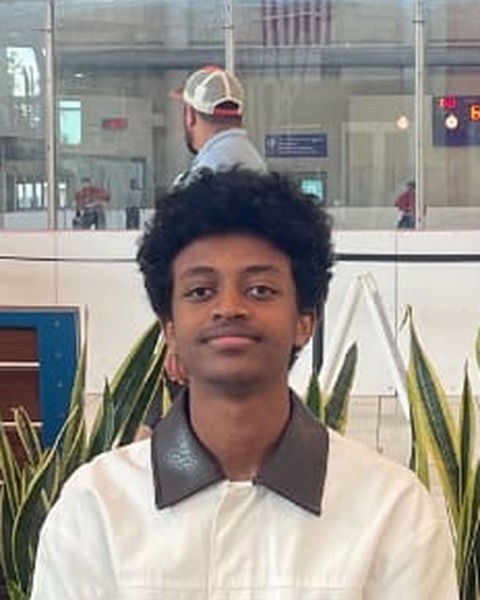
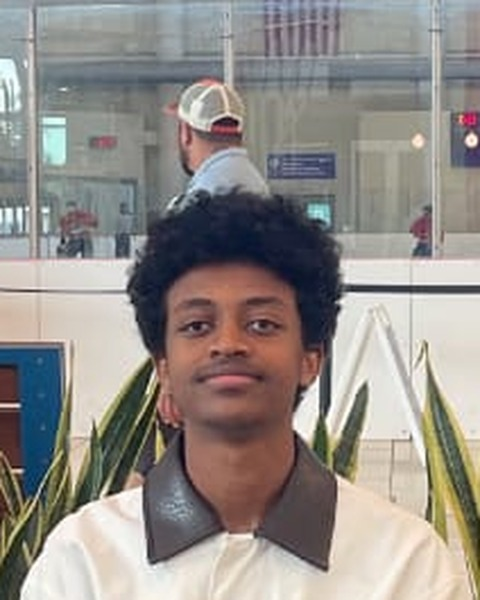
responsives

diff --git a/assets/css/style.css b/assets/css/style.css
@@ -6,21 +6,27 @@ body { margin:0; background:var(--bg); color:var(--ink); font:15px/1.55 Inter, s
 a { color:inherit; text-decoration:none; }
 .w { max-width:980px; margin:0 auto; padding:48px 40px; }
 
-.top { display:flex; justify-content:space-between; align-items:center; border-bottom:1px solid var(--ink); padding-bottom:14px; font-size:13px; }
-.top span { display:flex; align-items:center; gap:18px; }
+.top { display:flex; flex-wrap:wrap; gap:10px 24px; justify-content:space-between; align-items:center; border-bottom:1px solid var(--ink); padding-bottom:14px; font-size:13px; }
+.top span { display:flex; align-items:center; gap:18px; flex-wrap:wrap; }
 .top a:hover { color:var(--soft); }
 .theme { background:none; border:0; padding:0; color:var(--ink); cursor:pointer; display:flex; }
 .theme svg { width:14px; height:14px; }
 
 .hero { display:grid; grid-template-columns:1fr 2fr; gap:40px; margin-top:48px; }
 h1 { font:500 32px/1.1 Inter, sans-serif; letter-spacing:-.02em; margin:0; }
+.hero h1 span { display:block; }
 .me { width:128px; height:160px; object-fit:cover; margin-top:24px; }
 .lead { font-size:20px; line-height:1.5; letter-spacing:-.01em; margin:0; }
 .lab { font-size:12px; color:var(--mute); margin:26px 0 8px; }
 .skills { margin:0; padding:0; list-style:none; }
 .skills li { padding:3px 0 3px 14px; position:relative; break-inside:avoid; color:var(--soft); }
 .skills li:before { content:""; position:absolute; left:0; top:13px; width:5px; height:1px; background:var(--ink); }
-.links { margin-top:22px; font-size:13px; color:var(--soft); display:flex; flex-wrap:wrap; gap:18px; }
+.links { margin-top:24px; color:var(--soft); display:flex; flex-wrap:wrap; gap:20px; }
+.links a { display:inline-flex; transition:color .2s, transform .2s; } .links a:hover { color:var(--ink); transform:translateY(-1px); }
+.si { width:22px; height:22px; flex:none; }
+.wave { display:inline-block; margin-top:20px; color:var(--ink); font-style:italic; font-size:15px; white-space:nowrap; }
+.wave span { display:inline-block; font-size:calc(15px + cos(var(--i) * .45rad) * 3.5px); transform:translateY(calc(sin(var(--i) * .5rad) * 5px)); transition:transform .45s cubic-bezier(.2,.75,.2,1); }
+.wave:hover span { transform:none; }
 .links a:hover { color:var(--ink); }
 
 h2 { font:500 13px Inter, sans-serif; margin:72px 0 0; padding-bottom:10px; border-bottom:1px solid var(--ink); display:flex; justify-content:space-between; }
@@ -56,6 +62,10 @@ h1.page { font-size:32px; margin:48px 0 0; }
 footer { margin-top:80px; font-size:12px; color:var(--mute); border-top:1px solid var(--line); padding-top:12px; }
 
 @media (max-width:720px) {
+  .top { font-size:13px; } .top > a { flex-basis:100%; font-weight:500; }
+  .hero h1 span { display:inline; } h1 { font-size:28px; } .lead { font-size:18px; }
+  .me { width:112px; height:140px; margin-top:16px; }
+  .wave { white-space:normal; }
   .w { padding:32px 22px; } .hero { grid-template-columns:1fr; gap:24px; } .skills { columns:1; }
   .row { grid-template-columns:32px 1fr; } .row .d, .row .g { display:none; } .row.post .g { display:block; }
   .row.post { grid-template-columns:32px 1fr auto; } .hob { grid-template-columns:repeat(3,1fr); }

diff --git a/layouts/partials/socialIcon.html b/layouts/partials/socialIcon.html
@@ -1,0 +1,7 @@
+{{- $n := . -}}
+{{- if eq $n "github" -}}<svg class="si" viewBox="0 0 24 24" aria-hidden="true"><path fill="currentColor" d="M12 .297c-6.63 0-12 5.373-12 12 0 5.303 3.438 9.8 8.205 11.385.6.113.82-.258.82-.577 0-.285-.01-1.04-.015-2.04-3.338.724-4.042-1.61-4.042-1.61C4.422 18.07 3.633 17.7 3.633 17.7c-1.087-.744.084-.729.084-.729 1.205.084 1.838 1.236 1.838 1.236 1.07 1.835 2.809 1.305 3.495.998.108-.776.417-1.305.76-1.605-2.665-.3-5.466-1.332-5.466-5.93 0-1.31.465-2.38 1.235-3.22-.135-.303-.54-1.523.105-3.176 0 0 1.005-.322 3.3 1.23.96-.267 1.98-.399 3-.405 1.02.006 2.04.138 3 .405 2.28-1.552 3.285-1.23 3.285-1.23.645 1.653.24 2.873.12 3.176.765.84 1.23 1.91 1.23 3.22 0 4.61-2.805 5.625-5.475 5.92.42.36.81 1.096.81 2.22 0 1.606-.015 2.896-.015 3.286 0 .315.21.69.825.57C20.565 22.092 24 17.592 24 12.297c0-6.627-5.373-12-12-12"/></svg>
+{{- else if eq $n "linkedin" -}}<svg class="si" viewBox="0 0 24 24" aria-hidden="true"><path fill="currentColor" d="M20.447 20.452h-3.554v-5.569c0-1.328-.027-3.037-1.852-3.037-1.853 0-2.136 1.445-2.136 2.939v5.667H9.351V9h3.414v1.561h.046c.477-.9 1.637-1.85 3.37-1.85 3.601 0 4.267 2.37 4.267 5.455v6.286zM5.337 7.433c-1.144 0-2.063-.926-2.063-2.065 0-1.138.92-2.063 2.063-2.063 1.14 0 2.064.925 2.064 2.063 0 1.139-.925 2.065-2.064 2.065zm1.782 13.019H3.555V9h3.564v11.452zM22.225 0H1.771C.792 0 0 .774 0 1.729v20.542C0 23.227.792 24 1.771 24h20.451C23.2 24 24 23.227 24 22.271V1.729C24 .774 23.2 0 22.222 0h.003z"/></svg>
+{{- else if eq $n "medium" -}}<svg class="si" viewBox="0 0 24 24" aria-hidden="true"><path fill="currentColor" d="M4.21 0A4.201 4.201 0 0 0 0 4.21v15.58A4.201 4.201 0 0 0 4.21 24h15.58A4.201 4.201 0 0 0 24 19.79v-1.093c-.137.013-.278.02-.422.02-2.577 0-4.027-2.146-4.09-4.832a7.592 7.592 0 0 1 .022-.708c.093-1.186.475-2.241 1.105-3.022a3.885 3.885 0 0 1 1.395-1.1c.468-.237 1.127-.367 1.664-.367h.023c.101 0 .202.004.303.01V4.211A4.201 4.201 0 0 0 19.79 0Zm.198 5.583h4.165l3.588 8.435 3.59-8.435h3.864v.146l-.019.004c-.705.16-1.063.397-1.063 1.254h-.003l.003 10.274c.06.676.424.885 1.063 1.03l.02.004v.145h-4.923v-.145l.019-.005c.639-.144.994-.353 1.054-1.03V7.267l-4.745 11.15h-.261L6.15 7.569v9.445c0 .857.358 1.094 1.063 1.253l.02.004v.147H4.405v-.147l.019-.004c.705-.16 1.065-.397 1.065-1.253V6.987c0-.857-.358-1.094-1.064-1.254l-.018-.004zm19.25 3.668c-1.086.023-1.733 1.323-1.813 3.124H24V9.298a1.378 1.378 0 0 0-.342-.047Zm-1.862 3.632c-.1 1.756.86 3.239 2.204 3.634v-3.634z"/></svg>
+{{- else if eq $n "twitter" -}}<svg class="si" viewBox="0 0 24 24" aria-hidden="true"><path fill="currentColor" d="M18.901 1.153h3.68l-8.04 9.19L24 22.846h-7.406l-5.8-7.584-6.638 7.584H.474l8.6-9.83L0 1.154h7.594l5.243 6.932ZM17.61 20.644h2.039L6.486 3.24H4.298Z"/></svg>
+{{- else if eq $n "email" -}}<svg class="si" viewBox="0 0 24 24" fill="none" stroke="currentColor" stroke-width="2" stroke-linecap="round" stroke-linejoin="round" aria-hidden="true"> <path d="m22 7-8.991 5.727a2 2 0 0 1-2.009 0L2 7" /> <rect x="2" y="4" width="20" height="16" rx="2" /> </svg>
+{{- end -}}

diff --git a/layouts/index.html b/layouts/index.html
@@ -1,14 +1,15 @@
 {{ define "main" }}
 <section class="hero">
   <div>
-    <h1>{{ replace site.Title " " "<br>" | safeHTML }}</h1>
+    <h1>{{ range split site.Title " " }}<span>{{ . }}</span> {{ end }}</h1>
     {{ with site.Params.photo }}{{ if fileExists (printf "static/%s" .) }}<img class="me" src="{{ . | relURL }}?v={{ now.Unix }}" alt="{{ site.Title }}">{{ end }}{{ end }}
   </div>
   <div>
     <p class="lead">{{ site.Params.tagline }}</p>
     <div class="lab">{{ site.Params.skillsTitle }}</div>
     <ul class="skills">{{ range site.Params.skills }}<li>{{ . }}</li>{{ end }}</ul>
-    <div class="links">{{ range site.Params.links }}<a href="{{ .url }}">{{ .name }}</a>{{ end }}<a href="mailto:{{ site.Params.email }}">{{ site.Params.email }}</a></div>
+    <div class="links">{{ range site.Params.links }}<a href="{{ .url }}" aria-label="{{ .name }}" title="{{ .name }}">{{ partial "socialIcon.html" .name }}</a>{{ end }}</div>
+    {{ with site.Params.email }}<a class="wave" href="mailto:{{ . }}">{{ range $i, $c := split . "" }}<span style="{{ printf "--i:%d" $i | safeCSS }}">{{ $c }}</span>{{ end }}</a>{{ end }}
   </div>
 </section>
 
